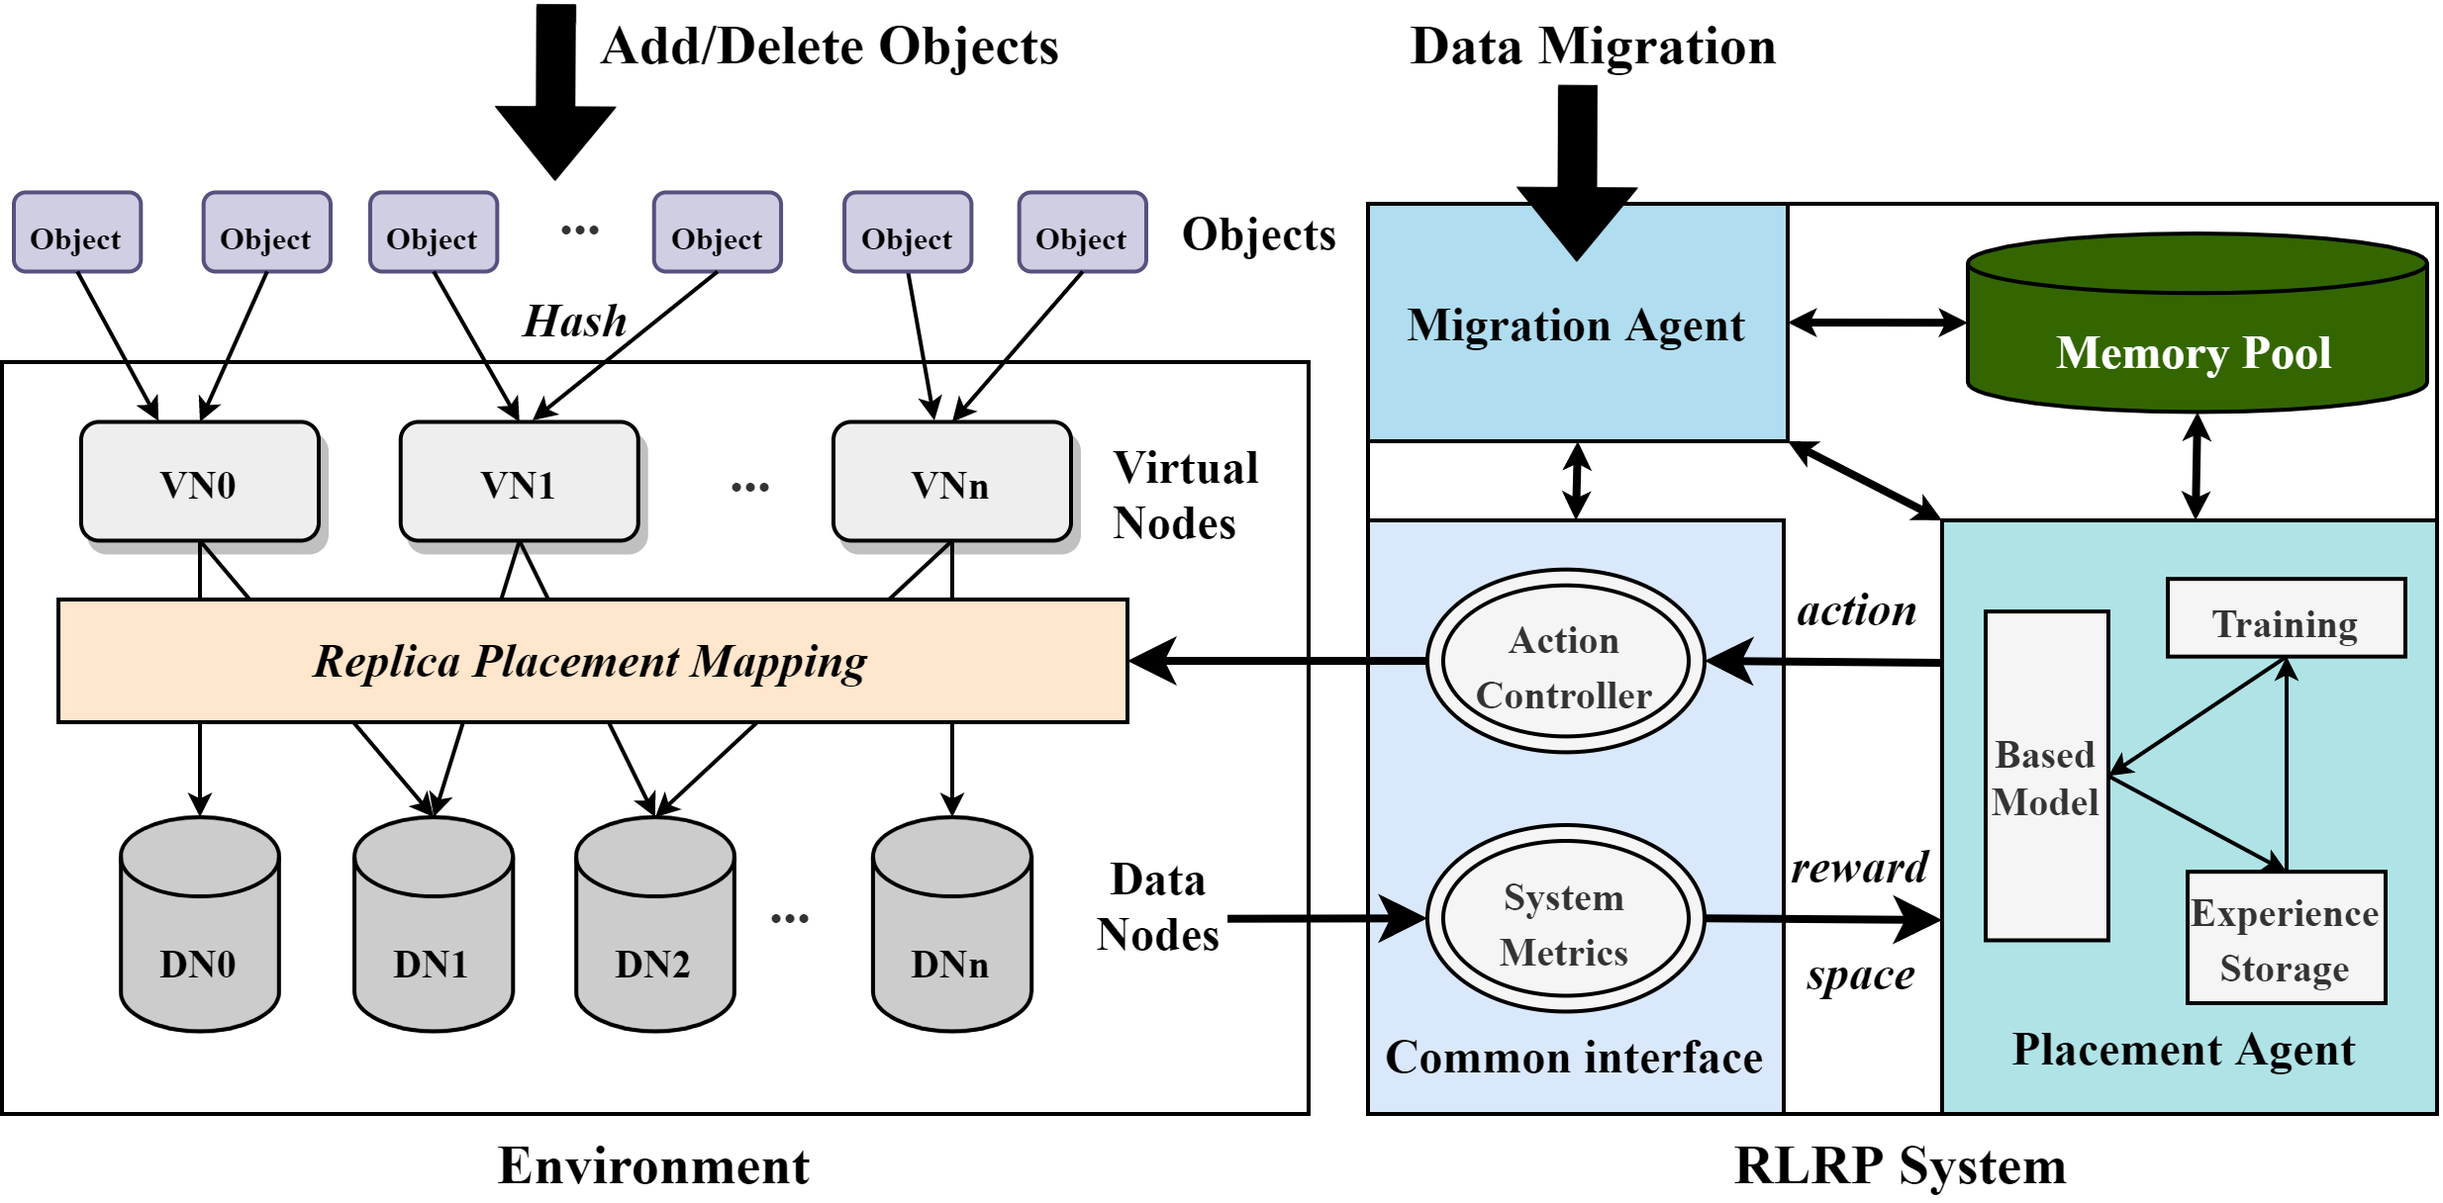
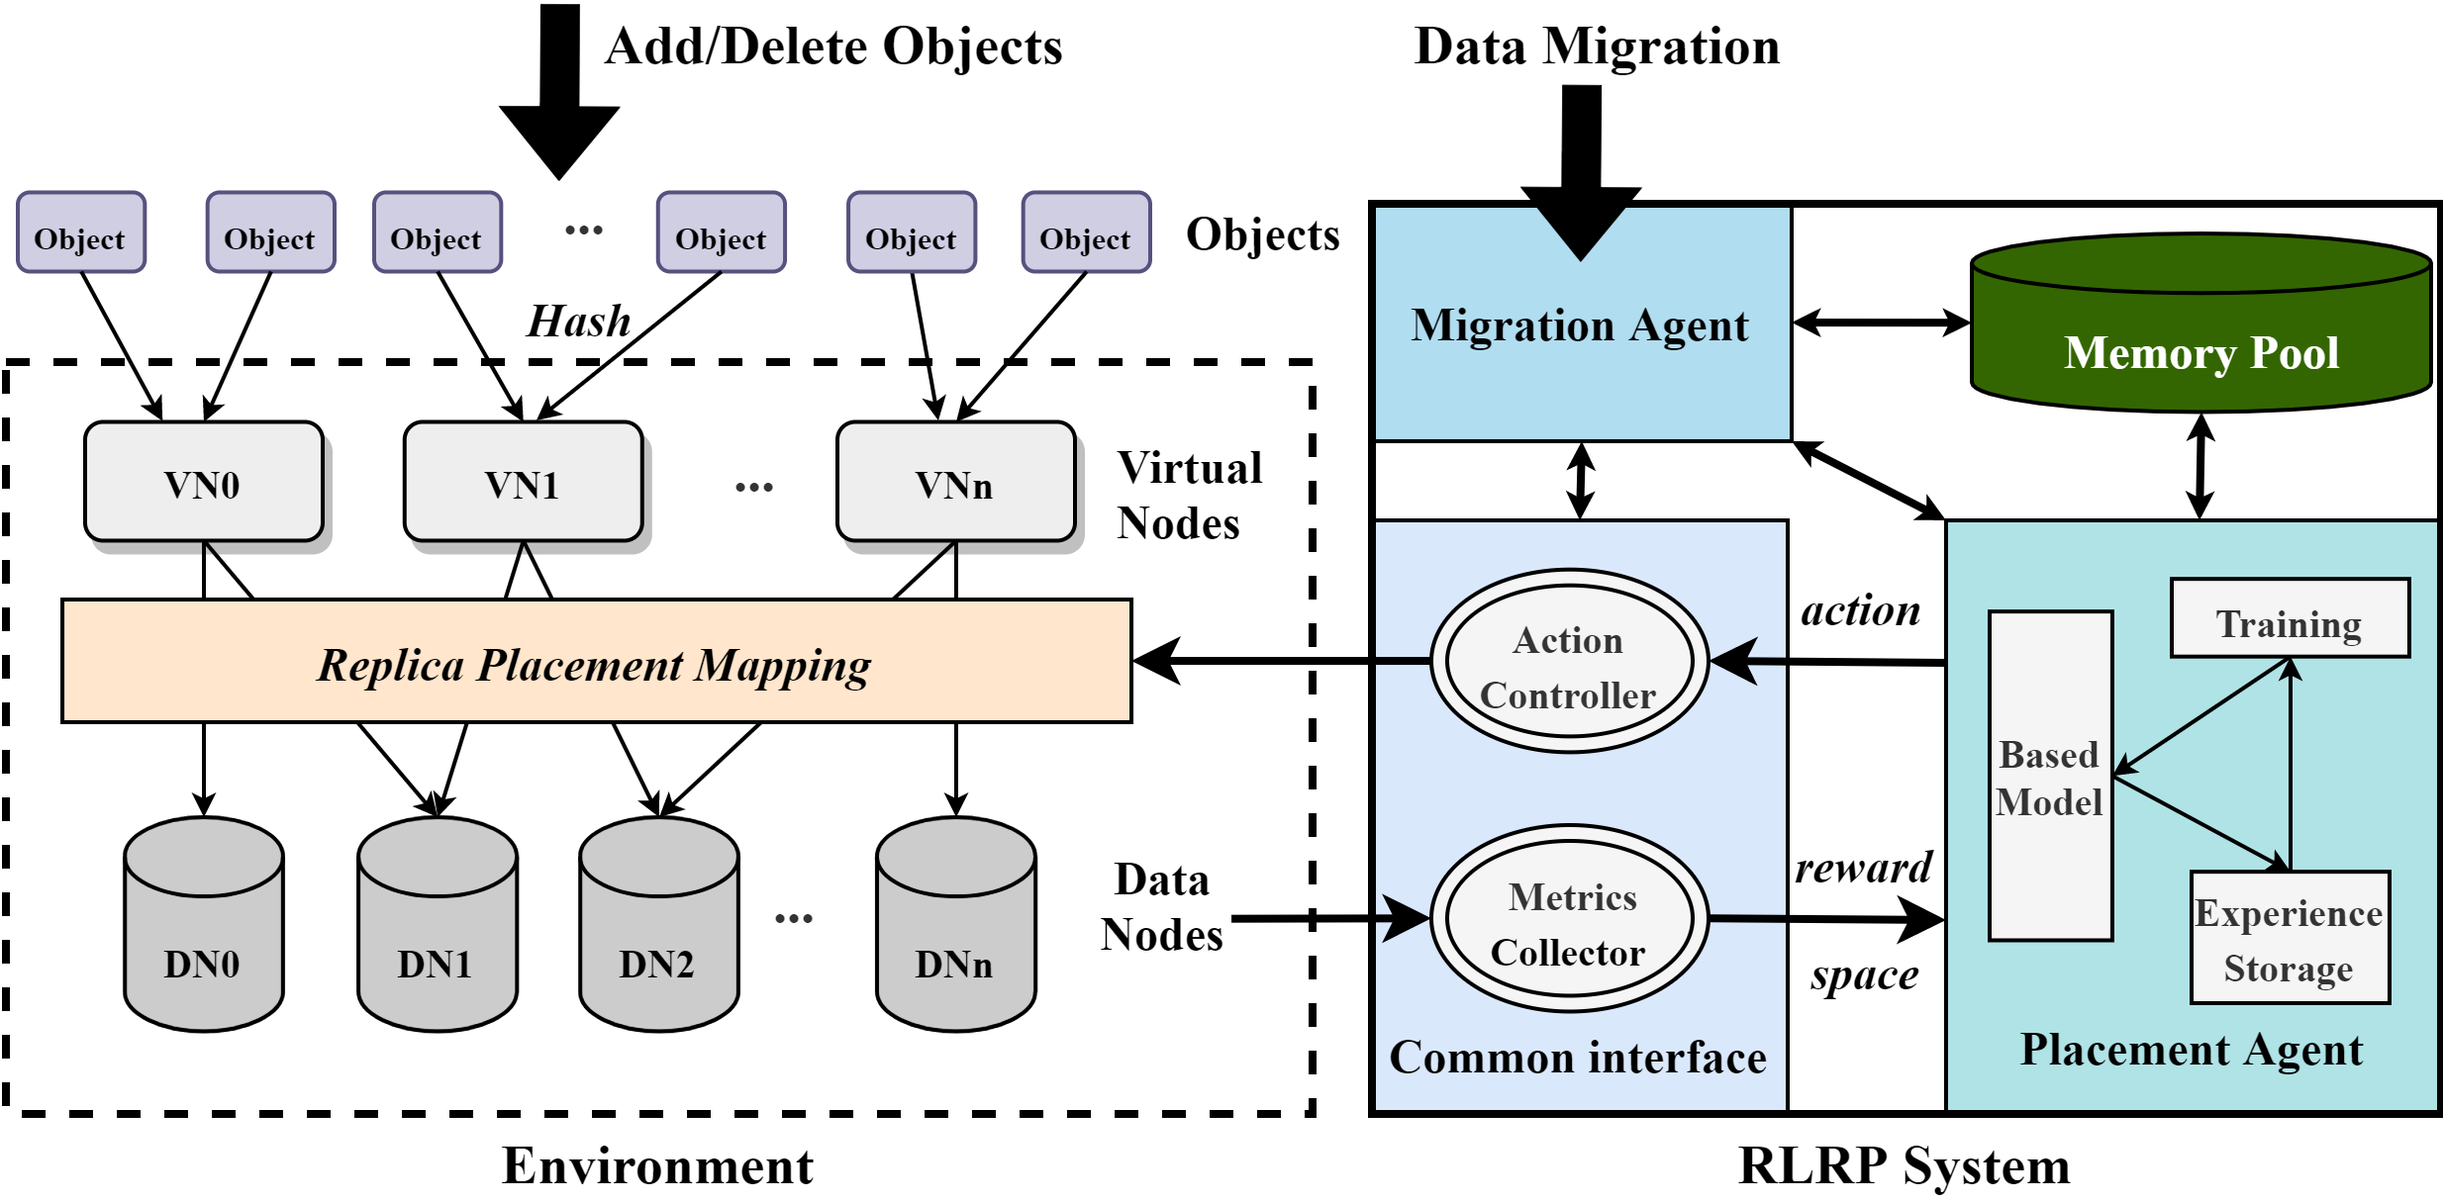
change posts

diff --git a/_posts/Loading/2021-06-17-RLRP.md b/_posts/Loading/2021-06-17-RLRP.md
@@ -76,6 +76,8 @@ Reinforcement Learning (SUTTON; BARTO, 1998) is an area of machine learning conc
 
 Q-learning、DQN...
 
+<img src="..\..\photos\RL\DQN.png" alt="load" style="zoom: 25%;" />
+
 - （挑战）
 
 1）如何对问题进行建模，如何定义强化学习各要素？
@@ -92,7 +94,7 @@ Q-learning、DQN...
 
 RLRP adopts a space-efficient parti-tioned store. The data are stored in different partition struc-tures (called Sub-trees) according to any standard, such askey range, secondary (delete) keys and so on. RLRPusesa map to manage the mapping. Each Sub-tree is an LSM-tree structure in a disk. The memory structure in TridentKVis based on Memtable and Immutable just like RocksDB.The difference is that when flushing to the disk, instead offlushing the entire Memtable directly, the KV pairs in theMemtable are stored in buffers through a well-designed Par-tition Scheduler, and then flushed separately. The PartitionScheduler includes data buffers for partitioning and a light-weight L0 index structure to speed up L0 layer lookup. UnlikeRocksDB’s traditional column family partitioning[5], all par-titions of RLRPshare one Memtable, which reducesmemory overhead.
 
-<img src="..\..\photos\RL\RLRP.png" alt="RL" style="zoom: 25%;" />
+<img src="..\..\photos\RL\RLRP.png" alt="RL" style="zoom: 18%;" />
 
 - Environment
 
@@ -101,30 +103,53 @@ Our virtual nodes have the same concept of virtual nodes in Dynamo and partition
 A virtual node can be replicated multiple times on different storage nodes, for example, Virtual Node 2 is replicated to Storage Nodes 1 and 3 in Figure 6. A Replica Placement Scheme (RPS) is responsible for defining the mapping of virtual node replicas to storage nodes. It specifies the replication factor, which happens to be 2 in our example meaning that each virtual node has two copies in our storage system and the placement of every virtual node replica as shown in Figure 6. By modifying the replica placement scheme, the storage system can dynamically manage data through operations of replica creation, migration and deletion. In this work, the RPS is modified in order to achieve load balancing of Get operations.  
 
 - Common Interface
+
+  - node can be replicated
+
 - Memory Pool
+
 - RL Agent
+
+  <img src="..\..\photos\RL\RL_NN.png" alt="load" style="zoom: 25%;" />
+
   - Placement Agent
   - Migration Agent
 
-The disk structure of each Sub-treeis based on SStables like RocksDB. But RLRPabandonsthe design of index block in SStable, and uses efficient learnedindex to build a learned index block to improve the SStableread performance. The learned index block includes two mod-ules: String Process and Learned Index. String Process ismainly responsible for efficiently converting strings into inte-ger numbers for model training. For Learned Index, we usea two-layer linear model of RMI[26], which is sufficient tohandle most workloads[26, 45].Different from the traditional binary search, the learnedindex block directly predicts the block where it is locatedthrough the model, which is faster than the binary search.More importantly, the learned index block is much smallerthan the traditional index block, and can be cached more inmemory, which is more conducive to read performance.
-
-
-
-As shown inthe left of Figure 6, RLRPuses the high-performanceSPDK interface to manage the NVMe SSDs, avoiding thesystem overhead caused by the Linux I/O path. In addition,RLRP adopts  asynchronous  IO  for  read  process  andprovides asynchronous interfaces for the upper and lowerprocesses. Aynchronous IO makes it possible to reduce thesynchronization control overhead caused by competing I/Oresources, and to coordinate the optimization of front-end andbackground processing speed.Read process.As shown in Figure 6, the read process isas follows: the upper-level program calls the asynchronousinterface to access TridentKV. RLRPfirstly searches theMemtable, Immutable Memtable and Partition Scheduler inturn in the memory. If not found, RLRPfinds in thecorresponding Sub-tree according to the map and searchs theSStable files. For read files, firstly RLRPread the bloomfilter to determine whether it exists. Then quickly locate itsdata block through the learned index block, load it into thememory and find target key
+The disk structure of each Sub-treeis based on SStables like RocksDB. But RLRPabandonsthe design of index block in SStable, and uses efficient learnedindex to build a learned index block to improve the SStableread performance. The learned index block includes two mod-ules: String Process and Learned Index. String Process ismainly responsible for efficiently converting strings into inte-ger numbers for model training. For Learned Index, we usea two-layer linear model of RMI[26], which is sufficient tohandle most workloads[26, 45].Different from the traditional binary search, the learnedindex block directly predicts the block where it is locatedthrough the model, which is faster than the binary search. More importantly, the learned index block is much smallerthan the traditional index block, and can be cached more inmemory, which is more conducive to read performance.
 
 - （迁移模型）
 
+<img src="C:\lukai1\桌面\商汤实习\Blog\emperorlu.github.io\photos\RL\Migration.png" alt="Migration" style="zoom: 25%;" />
 
-
-<img src="..\..\photos\load\数据分布RL迁移设计.png" alt="数据分布RL设计" style="zoom: 25%;" />
+As shown inthe left of Figure 6, RLRPuses the high-performanceSPDK interface to manage the NVMe SSDs, avoiding thesystem overhead caused by the Linux I/O path. In addition,RLRP adopts  asynchronous  IO  for  read  process  andprovides asynchronous interfaces for the upper and lowerprocesses. Aynchronous IO makes it possible to reduce thesynchronization control overhead caused by competing I/Oresources, and to coordinate the optimization of front-end andbackground processing speed.Read process.As shown in Figure 6, the read process isas follows: the upper-level program calls the asynchronousinterface to access TridentKV. RLRPfirstly searches theMemtable, Immutable Memtable and Partition Scheduler inturn in the memory. If not found, RLRPfinds in thecorresponding Sub-tree according to the map and searchs theSStable files. For read files, firstly RLRPread the bloomfilter to determine whether it exists. Then quickly locate itsdata block through the learned index block, load it into thememory and find target key 
 
 - （训练优化）
 
-<img src="..\..\photos\RL\train_RL.png" alt="load" style="zoom: 25%;" /><img src="..\..\photos\RL\RL_NN.png" alt="load" style="zoom: 50%;" />            
+  														<img src="..\..\photos\RL\train_RL.png" alt="load" style="zoom: 25%;" />         
+
+In the process of replica placement, the basic principle when placing a replica need to be followed. Under the premise of
+not violating the basic principle of replica placement, the system can maintain high availability while achieving the balance of
+replica distribution as much as possible. The replica placement rules defined in this paper are as follows.
+
+(1) Different replicas for the same data block should be placed on different data nodes. We need to ensure that the availability of the replica is not affected. The default replica placement strategy considers the impact of the node failure or the rack failure on the overall system availability. If all replicas for a data block are placed on a node, once the node fails, all replicas will be lost and unrecoverable. Therefore, we should avoid placing the replicas of the same data block on the same node.
+
+(2) Data replicas should be placed on a node with high availability. A node with high availability is the node with fewer failures
+and less load in a cluster system over a period. After the node fails, the data block can obtain reliable data replicas from other
+nodes and take over the failed node tasks in order to ensure uninterrupted service of the cluster system. If a replica is placed
+on a node with low availability, the replica tends to be unavailable as the node fails which result in losing the meaning of the data
+replica. Therefore, the replicas should be placed on a node with high availability.
+
+(3) The data block replicas should be evenly placed throughout the cluster system. The global placement of the data replica determines the amount of overhead for the node to access the nearest replica of the data block. If the data block replicas are placed in a centralized manner rather than evenly placement in the cluster system, although the overhead of some nodes is small in accessing the nearest replica of the data block, most nodes have a high cost of accessing the nearest replica. Therefore, the data block replicas should be evenly placed throughout the cluster sy  
 
 - （异构场景）
 
+  <img src="..\..\photos\RL\Attention.png" alt="Attention" style="zoom:18%;" />
   
+  The dynamic multi-objective optimized replica placement and migration strategies for SaaS applications in edge cloud are proposed to deal with the problems mentioned above. The multiobjective optimized replica placement problem is solved according to the fast non-dominated sorting genetic algorithm. With following the defined replica placement rule, multiple factors including the file unavailability, node load and network transmission cost are considered comprehensively. Then, the optimal replica placement target selection strategy can be obtained according to the spatial congestion degree. Finally, the consistency management of replicas is performed by constructing the reliability record table to ensure the availability of the data and the reliability of replica placement. Besides, the replica migration model for access hotspots is proposed in order to deal with the file access hotspots problem caused by burst requests. The method is mainly divided into three parts, including obtaining the load of the data node, the hot file selection strategy and the dynamic replica migration. The data nodes are divided into overload nodes, equalization nodes and low load nodes according to the load status threshold. The number of required replicas can be obtained according to the hotspot file selection. The pairing migration relationship from the source node to target node is obtained. The main contributions are shown as follows  
+  
+- In ceph
+
+  <img src="..\..\photos\RL\RLRP-Ceph.png" alt="RL" style="zoom: 20%;" />
 
 ## Implementation  
 

diff --git a/_posts/Loading/2021-05-13-RL.md b/_posts/Loading/2021-05-13-RL.md
@@ -468,7 +468,17 @@ Attention Mechanism
 
   - 没什么用
   
-- **方法3**：
+- **方法3**：Finite State Machine
+
+  - 将看不见的观测结果归为最近的已知观测结果
+
+  - 状态空间具有一定的连续性，相似的观察可以触发相似的动作
+
+  - 将两个观测值的接近程度，定义为观测向量之间的相似性。相似度度量如欧几里德距离和余弦相似度。因此，看不见的观测可以在提取的FSM中触发一个转换
+
+  - 实现：？
+
+    
 
 #### RLRP（第三阶段，异构环境）
 
@@ -522,6 +532,15 @@ Attention Mechanism
     - CPU 、内存、网络、节点性能、节点容量....
       - 先考虑三个因素：%iowait（CPU）、每秒磁盘读取请求数、每秒磁盘写入请求数（IO）、网络利用率（网络）
       - 训练负载生成：COS-Bench
+  - 模型
+    - state：st=(iowait,rtps,wtps, net)t，%iowait值、每秒磁盘读请求数、每秒磁盘写请求数、网络利用率
+    - action不变，reward
+      - reward = **w2 * thr - w1 * std** 
+      - thr = { for i = 0 to n, thr += (**k1 * Net - K2 * IO - K3 * CPU**) }
+    - 实现：DQN +输入层网络用LSTM+Attention
+      - tf.nn.seq2seq.embedding_attention_seq2seq /  attention_decoder
+
+<img src="..\..\photos\RL\Attention.png" alt="test6_weight" style="zoom: 25%;" />
 
 - 对象及PG的差异
 
@@ -873,7 +892,7 @@ Attention Mechanism
 ### multi-objective optimized replica placement  
 
 #### Dynamic multi-objective optimized replica placement and migration strategies for SaaS applications in edge cloud  
-- 国防大学， ACM FGCS‘2019
+- 国防大学， ACM FGCS‘2019，面向边缘云SaaS应用的**副本放置**和**迁移策略**
 
 - 副本放置原则
 
@@ -888,35 +907,12 @@ Attention Mechanism
   
 
   - f1、f2、f3分别代表文件不可用、节点负载和网络传输成本
-  - 
-  - 节点负载
-  - CPU利用率你C磷你一世, 内存利用率 你米电子米一世, 带宽利用率 你乙瓦一世, I/O 访问率 你一世∕哦一世 和磁盘空间使用情况 你d一世秒克一世用于测量节点负载
 
-
-
-
-
-根据快速非支配排序遗传算法求解多目标优化副本放置问题。遵循定义的副本放置规则，综合考虑文件不可用、节点负载和网络传输成本等多种因素。然后，可以根据空间拥塞程度得到最优的副本放置目标选择策略。最后通过构建可靠性记录表进行副本的一致性管理，保证数据的可用性和副本放置的可靠性。
-
-
-
-提出了访问热点副本迁移模型。该方法主要分为三个部分，包括获取数据节点的负载、热文件选择策略和动态副本迁移。数据节点根据负载状态阈值分为过载节点、均衡节点和低负载节点。可以根据热点文件选择获取所需的副本数量。得到源节点到目标节点的配对迁移关系。
-
-
-
-(1) 本文定义了副本放置的基本规则。在不违反副本放置基本原则的情况下，系统可以在保持高可用性的同时尽可能平衡副本的分布。
-
-(2) 考虑文件不可用、节点负载和网络传输成本等多种因素。节点负载可以通过考虑CPU、内存、磁盘读写、磁盘空间和网络带宽的负载能力来衡量。
-
-(3) 此外，为了保证副本放置的可靠性，通过构建可靠性记录表进行副本的一致性管理，以提高系统性能，保证用户对服务质量的满意度。
-
-
-
-(1)设计了节点负载确定模块。数据节点根据负载状态阈值分为过载节点、均衡节点和低负载节点。当节点的访问负载大于阈值时，需要将节点的部分副本迁移到其他节点以降低负载。
-
-(2)对于过载的节点，可以根据源节点到目标节点的配对迁移关系，进行特定的动态副本迁移方案。通过快速传播副本，可以获得热点文件所需的副本数量，从而提高系统吞吐量，减少系统响应时间。
-
-(3) 此外，所提出的复制策略可以应用于社交媒体领域、智能农业、军事领域和交通领域，以满足用户的快速连接、延迟敏感服务和隐私保护需求。
+- 迁移策略
+  - **当节点负载高于阈值的时候，需要考虑迁移数据**
+  - 节点负载确定模块。数据节点根据负载状态阈值分为过载节点、均衡节点和低负载节点。当节点的访问负载大于阈值时，需要将节点的部分副本迁移到其他节点以降低负载
+  - 对于过载的节点，可以根据源节点到目标节点的配对迁移关系，进行特定的动态副本迁移方案。通过快速传播副本，可以获得热点文件所需的副本数量，从而提高系统吞吐量，减少系统响应时间
+- 应用 ：所提出的复制策略可以应用于社交媒体领域、智能农业、军事领域和交通领域，以满足用户的快速连接、延迟敏感服务和隐私保护需求
 
 
 
@@ -961,6 +957,16 @@ Rearchitecting Linux Storage Stack for µs latency and High Throughput
 Optimizing storage performance with calibrated interrupts
 
 ZNS+: Advanced Zoned Namespace Interface for Supporting In-Storage Zone Compaction
+
+
+
+- 背景
+  - 构建对象存储服务(Object storage Service)、文件存储服务(File storage Service)、表存储(Tablestore)等横向云存储服务
+  - 利用分散存储、支持繁重的写和范围查询工作负载，以及平衡可伸缩性、可用性和资源使用
+  - 结合了LSM树和bw树的优点，并利用了硬件技术的进步
+  - 可收缩的页面映射表，清晰的系统和用户状态分离，快速恢复，写放大减少，高效的垃圾收集，轻量级的分区拆分和合并。
+
+<img src="C:\Users\lukai1\AppData\Roaming\Typora\typora-user-images\image-20210621145112147.png" alt="image-20210621145112147" style="zoom:33%;" />
 
 
 
